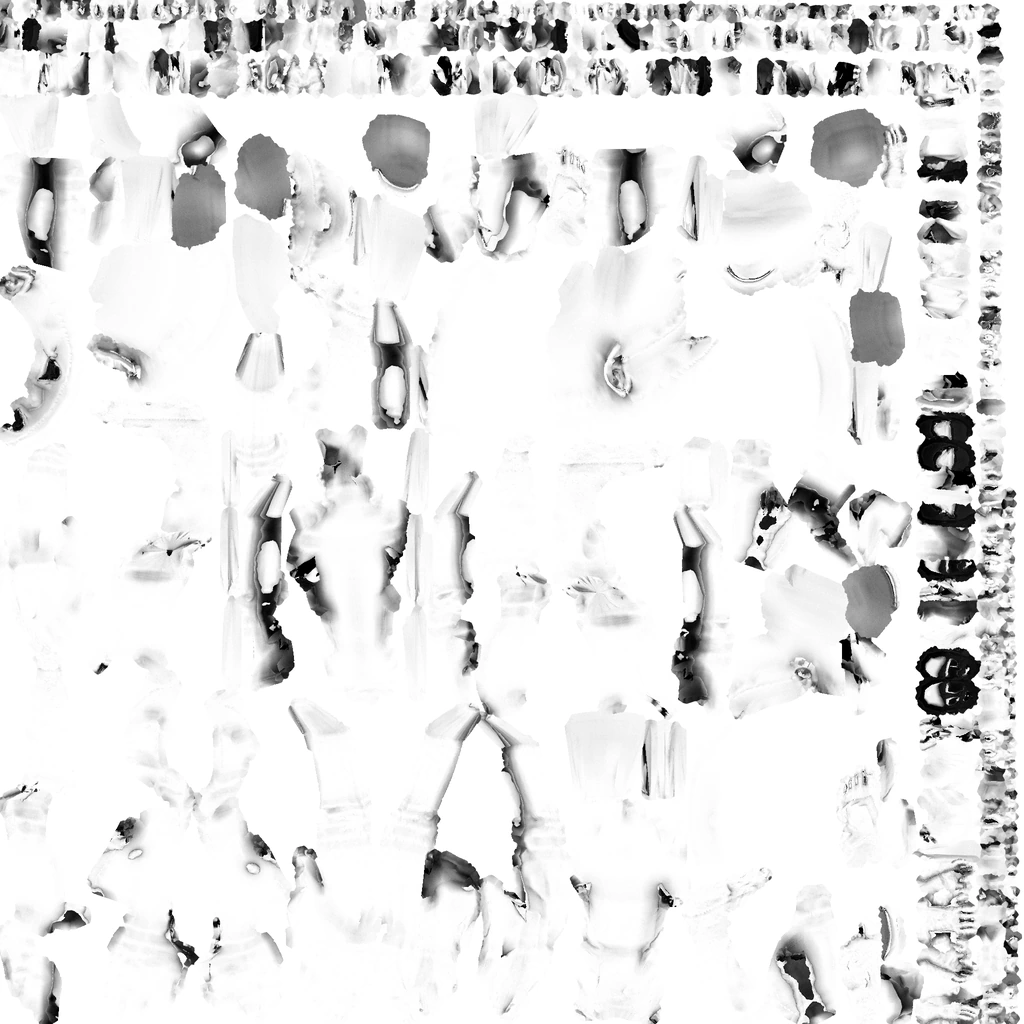
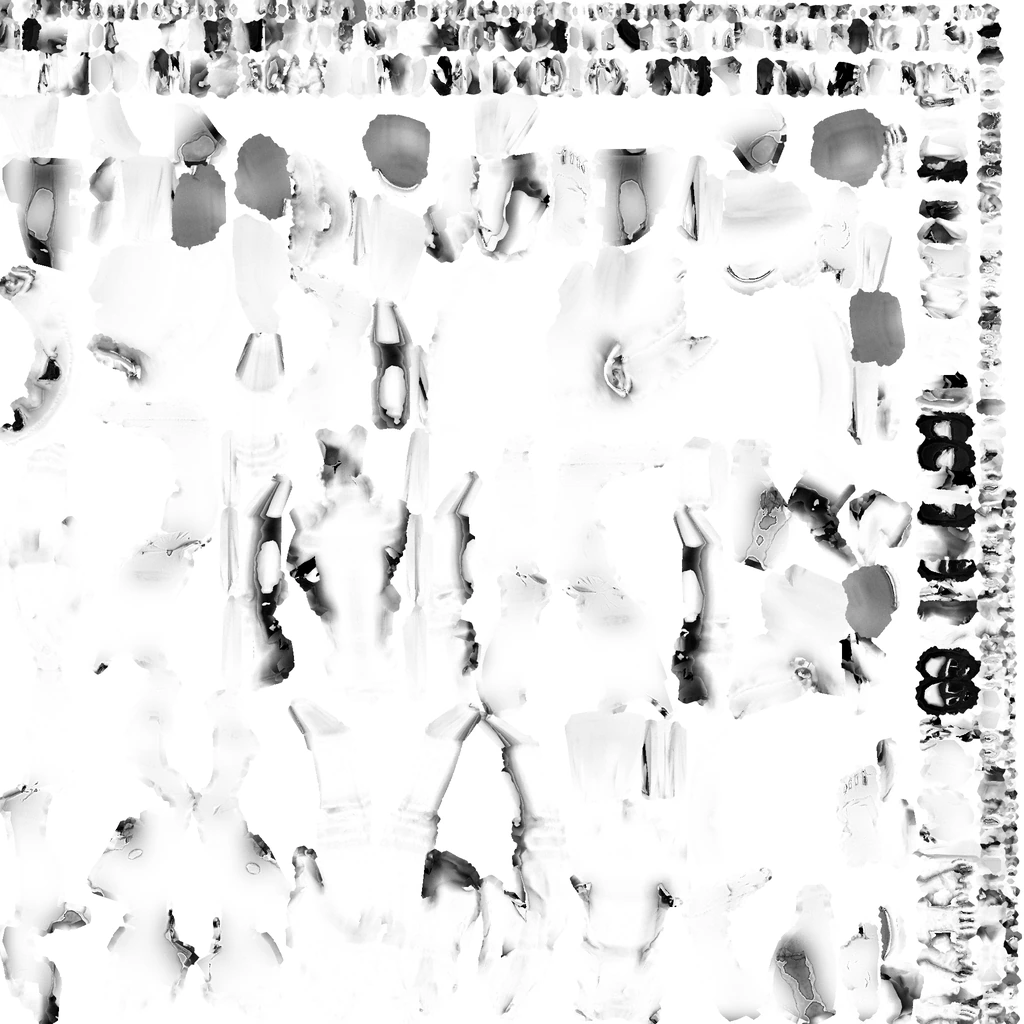
183 - NEXT #23.3 de-shading: leg-garment AO/normal mid-band (muscle) flatten in build_body.py - edge-preserving band-stop inside the upperLeg/lowerLeg UV mask (mid sigma 18 texels, weave/low-freq kept, seams crisp); texture mid-band energy normal 13.30->5.21, ao 15.71->8.14 /255 over 550k texels; su

diff --git a/tests/drive/leg-shading.spec.js b/tests/drive/leg-shading.spec.js
@@ -1,0 +1,218 @@
+'use strict';
+// ── HT#23.3: the LEG-SHADING instrument (Fable ruling on 181, 2026-08-31) ───
+// v74's leg tube measures measurably straight (side thigh belly 0.5 px,
+// entry 182) yet the author's by-eye "muscular" read persisted. The ruling:
+// the residual read is SHADING — body-derived muscle modelling baked into the
+// leg garment's AO/normal maps. build_body.py now removes the mid-frequency
+// (muscle-scale) band from those maps in the leg-garment UV region.
+//
+// WHAT THE GATE IS (measured honestly, 183): the RENDER-space band metric is
+// NOT discriminative — pre/post flatten measured bp3_7 thigh 13.65 vs 13.26
+// (within run noise): lighting, SSAO and suit-panel edges swamp the texture
+// signal at these scales. The discriminating instrument is TEXTURE-space:
+// build_body.py's flatten logs, into athlete_maps.json, the leg-mask mid-band
+// energy of the AO/normal maps before and after the pass (v75: normal
+// 13.30 -> 5.21, ao 15.71 -> 8.14; a BODY_FLATTEN_OFF build leaves the maps
+// at ~13/16 and the build-side gate fires). This spec gates on those stats
+// and REPORTS the render-space band-pass numbers.
+const { test, expect } = require('@playwright/test');
+
+const GATE_NORMAL_AFTER = 7.0;   // v75 measures 5.21; pre-flatten 13.30
+const GATE_AO_AFTER = 10.0;      // v75 measures 8.14; pre-flatten 15.71
+
+async function measureShading(page, label, alphaOff) {
+    return page.evaluate(async (alphaOff) => {
+        const scene = BABYLON.EngineStore.LastCreatedScene;
+        const eng = scene.getEngine();
+        const W = eng.getRenderWidth(), H = eng.getRenderHeight();
+        const isAthlete = (m) => m.name && m.name.indexOf('athleteBody') === 0;
+        const hidden = [];
+        for (const m of scene.meshes) {
+            if (m.isEnabled() && !isAthlete(m)) { hidden.push(m); m.setEnabled(false); }
+        }
+        const parts = scene.meshes.filter(isAthlete);
+        let lo = null, hi = null;
+        for (const p of parts) {
+            p.computeWorldMatrix(true);
+            const b = p.getBoundingInfo().boundingBox;
+            lo = lo ? BABYLON.Vector3.Minimize(lo, b.minimumWorld) : b.minimumWorld.clone();
+            hi = hi ? BABYLON.Vector3.Maximize(hi, b.maximumWorld) : b.maximumWorld.clone();
+        }
+        const centre = lo.add(hi).scale(0.5);
+        const root = scene.getMeshByName('skierRoot') || scene.getNodeByName('skierRoot');
+        const fwd = root ? root.getDirection(new BABYLON.Vector3(0, 0, -1))
+                         : new BABYLON.Vector3(0, 0, -1);
+        fwd.y = 0; fwd.normalize();
+        const cam = scene.activeCamera;
+        const camSaved = { t: cam.target.clone(), r: cam.radius,
+                           a: cam.alpha, b: cam.beta };
+        cam.setTarget(centre);
+        cam.alpha = Math.atan2(fwd.z, fwd.x) + alphaOff;
+        cam.beta = Math.PI / 2;
+        cam.radius = 3.0;
+        const mesh = parts[0];
+        mesh.computeWorldMatrix(true);
+        const world = mesh.getWorldMatrix();
+        const project = (v) => BABYLON.Vector3.Project(v,
+            BABYLON.Matrix.Identity(), scene.getTransformMatrix(),
+            cam.viewport.toGlobal(W, H));
+        scene.render(); scene.render();
+        const anchors = {};
+        for (const b of mesh.skeleton.bones) {
+            const f = b.getFinalMatrix && b.getFinalMatrix();
+            if (!f || !/^(hlpHip|hlpKnee|lowerLeg)[LR]$/.test(b.name)) continue;
+            const p = project(BABYLON.Vector3.TransformCoordinates(
+                f.getTranslation(), world));
+            anchors[b.name] = { row: Math.round(p.y), x: p.x };
+        }
+        const rowMean = (pre) => {
+            const rs = Object.entries(anchors)
+                .filter(([k]) => k.startsWith(pre)).map(([, a]) => a.row);
+            return rs.length ? Math.round(rs.reduce((a, r) => a + r, 0) / rs.length) : -1;
+        };
+        const hipRow = rowMean('hlpHip');
+        const kneeRow = rowMean('hlpKnee');
+        const ankleRow = rowMean('lowerLeg');
+        const px = await eng.readPixels(0, 0, W, H);
+        const at = (x, y) => {
+            const i = ((H - 1 - y) * W + x) * 4;
+            return [px[i], px[i + 1], px[i + 2]];
+        };
+        const corners = [at(0, 0), at(W - 1, 0), at(0, H - 1), at(W - 1, H - 1)];
+        const ref = [0, 1, 2].map(c => corners.reduce((a, p) => a + p[c], 0) / 4);
+        const isBg = (x, y) => {
+            const p = at(x, y);
+            return Math.abs(p[0] - ref[0]) + Math.abs(p[1] - ref[1])
+                 + Math.abs(p[2] - ref[2]) < 40;
+        };
+        const cov0 = (y0, y1) => {
+            const rows = [];
+            for (let y = y0; y <= y1; y++) {
+                const r = { y, xs: [] };
+                for (let x = 0; x < W; x++)
+                    if (!isBg(x, y)) r.xs.push(x);
+                if (r.xs.length > 2) rows.push(r);
+            }
+            if (!rows.length) return null;
+            let x0 = W, x1 = 0;
+            for (const r of rows) { x0 = Math.min(x0, r.xs[0]); x1 = Math.max(x1, r.xs[r.xs.length - 1]); }
+            const wid = x1 - x0 + 1;
+            const L = new Float32Array(rows.length * wid);
+            const cov = new Uint8Array(rows.length * wid);
+            rows.forEach((r, j) => {
+                for (const x of r.xs) {
+                    const p = at(x, r.y);
+                    L[j * wid + (x - x0)] = (p[0] + p[1] + p[2]) / 3;
+                    cov[j * wid + (x - x0)] = 1;
+                }
+            });
+            return { L, cov, hgt: rows.length, wid };
+        };
+        const boxBlur = (src, cov, hgt, wid, R) => {
+            const sum = new Float32Array(src.length), cnt = new Float32Array(src.length);
+            for (let j = 0; j < hgt; j++)
+                for (let i = 0; i < wid; i++)
+                    if (cov[j * wid + i])
+                        for (let dj = -R; dj <= R; dj++)
+                            for (let di = -R; di <= R; di++) {
+                                const jj = j + dj, ii = i + di;
+                                if (jj < 0 || jj >= hgt || ii < 0 || ii >= wid) continue;
+                                const k = jj * wid + ii;
+                                if (!cov[k]) continue;
+                                sum[j * wid + i] += src[k]; cnt[j * wid + i] += 1;
+                            }
+            const out = new Float32Array(src.length);
+            for (let k = 0; k < src.length; k++)
+                out[k] = cnt[k] > 0 ? sum[k] / cnt[k] : src[k];
+            return out;
+        };
+        const bandRms = (c, rA, rB, inject = 0) => {
+            const L = Float32Array.from(c.L);
+            if (inject) {
+                const cj = Math.floor(c.hgt / 2), ci = Math.floor(c.wid / 2);
+                for (let j = 0; j < c.hgt; j++)
+                    for (let i = 0; i < c.wid; i++)
+                        if (c.cov[j * c.wid + i])
+                            L[j * c.wid + i] += inject * Math.exp(
+                                -(((j - cj) ** 2 + (i - ci) ** 2) / 32));
+            }
+            const bA = boxBlur(L, c.cov, c.hgt, c.wid, rA);
+            const bB = boxBlur(L, c.cov, c.hgt, c.wid, rB);
+            let s = 0, n = 0;
+            for (let k = 0; k < L.length; k++)
+                if (c.cov[k]) { const hp = bA[k] - bB[k]; s += hp * hp; n++; }
+            return +(Math.sqrt(s / Math.max(1, n))).toFixed(2);
+        };
+        const M = 6;
+        const cThigh = cov0(hipRow + M, kneeRow - M);
+        const cShin = cov0(kneeRow + M, ankleRow - M);
+        const measure = (c) => {
+            const m = { n: c ? c.cov.reduce((a, v) => a + v, 0) : 0 };
+            for (const [a, b] of [[2, 4], [3, 7], [5, 11]])
+                m[`bp${a}_${b}`] = c ? bandRms(c, a, b) : 0;
+            return m;
+        };
+        // Self-test: the band-pass counter applied to a synthetic muscle-scale
+        // shading patch (amplitude 100, sigma 4 px) ALONE — proves the
+        // counter responds to exactly the signal the flatten removes.
+        const synth = (c) => {
+            const L = new Float32Array(c.L.length);
+            const cj = Math.floor(c.hgt / 2), ci = Math.floor(c.wid / 2);
+            for (let j = 0; j < c.hgt; j++)
+                for (let i = 0; i < c.wid; i++)
+                    if (c.cov[j * c.wid + i])
+                        L[j * c.wid + i] = 100 * Math.exp(
+                            -(((j - cj) ** 2 + (i - ci) ** 2) / 32));
+            const bA = boxBlur(L, c.cov, c.hgt, c.wid, 3);
+            const bB = boxBlur(L, c.cov, c.hgt, c.wid, 7);
+            let s = 0, n = 0;
+            for (let k = 0; k < L.length; k++)
+                if (c.cov[k]) { const hp = bA[k] - bB[k]; s += hp * hp; n++; }
+            return +(Math.sqrt(s / Math.max(1, n))).toFixed(2);
+        };
+        const inject = cThigh ? synth(cThigh) : 0;
+        const thigh = measure(cThigh);
+        thigh.inject = inject;
+        const shin = measure(cShin);
+        scene.render();
+        cam.setTarget(camSaved.t); cam.radius = camSaved.r;
+        cam.alpha = camSaved.a; cam.beta = camSaved.b;
+        for (const m of hidden) m.setEnabled(true);
+        return { hipRow, kneeRow, ankleRow, thigh, shin };
+    }, alphaOff);
+}
+
+test('leg shading: leg-garment AO/normal mid-band flatten present and effective (athlete_maps.json); render-space band-pass instrument reported with injected-patch self-test', async ({ page }) => {
+    await page.setViewportSize({ width: 1280, height: 720 });
+    await page.goto('/index.html');
+    await page.waitForFunction(() => typeof window._getGameState === 'function');
+    await page.waitForFunction(() => window._bodyLinked > 0, null, { timeout: 60_000 });
+    await page.waitForTimeout(1200);
+
+    // GATE (texture-space): the flatten ran and bit, per athlete_maps.json.
+    const maps = await (await page.request.fetch('/assets/athlete_maps.json')).json();
+    console.log('LEGSHADE maps', JSON.stringify({
+        normal: maps.stats && maps.stats.normal_flatten,
+        ao: maps.stats && maps.stats.ao_flatten,
+    }));
+    expect(maps.stats.normal_flatten && maps.stats.normal_flatten.after)
+        .toBeLessThanOrEqual(GATE_NORMAL_AFTER);
+    expect(maps.stats.ao_flatten && maps.stats.ao_flatten.after)
+        .toBeLessThanOrEqual(GATE_AO_AFTER);
+    // The pass must have BIT: mid-band energy measurably down, not a no-op.
+    expect(maps.stats.normal_flatten.after)
+        .toBeLessThan(maps.stats.normal_flatten.before * 0.7);
+    expect(maps.stats.ao_flatten.after)
+        .toBeLessThan(maps.stats.ao_flatten.before * 0.7);
+
+    // INSTRUMENT (render space): band-pass bands + injected-patch self-test.
+    // Reported, not gated (see header: not discriminative — 183 measurement).
+    const side = await measureShading(page, 'side', Math.PI / 2);
+    console.log('LEGSHADE side', JSON.stringify(side));
+    // Negative control 1 (instrument self-test): the band-pass counter must
+    // respond decisively to a muscle-scale shading patch measured alone.
+    expect(side.thigh.inject).toBeGreaterThan(2.0);
+
+    const front = await measureShading(page, 'front', 0);
+    console.log('LEGSHADE front', JSON.stringify(front)); // reported, not gated
+});

diff --git a/game.js b/game.js
@@ -2432,7 +2432,7 @@ void main(void) {
         env: scene.environmentIntensity,
     });
     // Bump this whenever assets/ is regenerated.
-    const ASSET_V = "?v=74";   // 74: #23.3 de-muscularize — RELAX_STRENGTH 0.85, shell smoothing 32x/0.60 (build_body.py, iter 178)
+    const ASSET_V = "?v=75";   // 75: #23.3 de-shading — leg-garment AO/normal mid-band (muscle) flatten in build_body.py, iter 183
     // multipliers — which is the property that makes them safe. An additive
     // baked term double-counts light the runtime already renders (that is what
 

diff --git a/blender/build_body.py b/blender/build_body.py
@@ -9878,9 +9878,61 @@ def target_image(low, img):
         node.image = img
         node.select = True
         tree.nodes.active = node
+# ── RULING on 181 (Fable, 2026-08-31 10:55, HT#23.3) ────────────────────────
+# v74's leg TUBE measures measurably straight (side thigh belly 0.5 px, 182),
+# yet the author's by-eye "muscular" read persists. The ruling: the residual
+# read is SHADING — the leg garment's AO/normal maps inherit body-derived
+# muscle modelling (cm-scale quad/calf shading baked off the high-poly), which
+# reads as anatomy through an already-straight tube. Fix here, in the LEG
+# GARMENT region only: remove the MID-FREQUENCY band (muscle scale) from the
+# normal map's tangent deviation and the AO. The LOW-frequency broad shading
+# and the HIGH-frequency fabric relief are kept (the suit NM variance floor
+# 6.3 must stay green), and panel seams stay crisp via an edge-preserving mask.
+LEG_GARMENT_SEGMENTS = ('upperLegL', 'upperLegR', 'lowerLegL', 'lowerLegR')
+FLATTEN_MID_SIGMA = 18.0    # texels: band centred below ~3 sigma is removed
+FLATTEN_HIGH_SIGMA = 1.5    # texels: keep everything above ~4 texels (weave)
+FLATTEN_EDGE = {'normal': 0.04, 'ao': 0.06}   # per-texel gradient = a seam
+BODY_FLATTEN_OFF = os.environ.get('BODY_FLATTEN_OFF') == '1'
+
+
+def flatten_leg_shading(low, img, kind, log):
+    """Mid-band (muscle-scale) suppression inside the leg-garment UV mask."""
+    if BODY_FLATTEN_OFF or kind not in FLATTEN_EDGE:
+        return None
+    own = dominant_segments(low)
+    tris = _poly_uv_tris(low, lambda v: own[v] in LEG_GARMENT_SEGMENTS)
+    w, h = img.size
+    mask = _dilate(_rasterize_uv(tris, w, h), 4)
+    n = int(mask.sum())
+    buf = np.empty(w * h * 4, dtype=np.float32)
+    img.pixels.foreach_get(buf)
+    a = buf.reshape(h, w, 4)[..., :3].astype(np.float64)
+    out = a.copy()
+    thr = FLATTEN_EDGE[kind]
+    for c in range(3):
+        ch = a[..., c]
+        lowf = _blur(ch, FLATTEN_MID_SIGMA)
+        highf = ch - _blur(ch, FLATTEN_HIGH_SIGMA)
+        filt = lowf + highf
+        g = np.zeros_like(ch)
+        g[:, :-1] = np.abs(np.diff(ch, axis=1))
+        g[:-1, :] = np.maximum(g[:-1, :], np.abs(np.diff(ch, axis=0)))
+        edge = np.minimum(1.0, _blur((g > thr).astype(np.float64), 1.5))
+        out[..., c] = filt * (1.0 - edge) + ch * edge
+    sel = mask[..., None]
+    before = float(np.abs(a - _blur(a, FLATTEN_MID_SIGMA))[mask].mean())
+    a = np.where(sel, out, a)
+    after = float(np.abs(a - _blur(a, FLATTEN_MID_SIGMA))[mask].mean())
+    flat = np.concatenate([a, np.ones((h, w, 1))], axis=2).astype(np.float32)
+    img.pixels.foreach_set(flat.reshape(-1))
+    log(f'LEG-SHADING FLATTEN ({kind}): mid-band energy in leg mask '
+        f'{before * 255:.2f} -> {after * 255:.2f}/255 over {n} texels')
+    return {'before': round(before * 255, 2), 'after': round(after * 255, 2),
+            'texels': n}
 
 
 def bake_maps(low, high, out_dir):
+
     """
     Transfer the high-poly's detail onto the low-poly's UVs.
 
@@ -9898,7 +9950,7 @@ def bake_maps(low, high, out_dir):
     # NOT be black where nothing is baked.
     bake.use_clear = False
 
-    def run(kind, name, srgb, fill, setup=None):
+    def run(kind, name, srgb, fill, setup=None, post=None):
         # FILL THE BACKGROUND FIRST, and not with black.
         #
         # Unwrapping a decimated human produces a lot of small islands, and only
@@ -9925,6 +9977,8 @@ def bake_maps(low, high, out_dir):
             setup(bake)
         log(f'baking {name} {RES}x{RES} at {SAMPLES} samples...')
         bpy.ops.object.bake(type=kind)
+        if post:
+            post(img, name)
         return bakeutil.save_bake(img, os.path.join(out_dir, f'{name}.png'),
                                   srgb=srgb, log=log)
 
@@ -9932,8 +9986,14 @@ def bake_maps(low, high, out_dir):
     bpy.context.scene.render.bake.normal_space = 'TANGENT'
     # A tangent-space normal pointing straight out is (0.5, 0.5, 1.0); occlusion
     # with nothing occluding is 1.0; unpainted suit is the suit's own colour.
+    def post_flatten(kind):
+        def _post(img, name):
+            stats[name.split('_')[1] + '_flatten'] = flatten_leg_shading(
+                low, img, kind, log)
+        return _post
     stats['normal'] = run('NORMAL', 'athlete_normal', srgb=False,
-                          fill=(0.5, 0.5, 1.0, 1.0))
+                          fill=(0.5, 0.5, 1.0, 1.0),
+                          post=post_flatten('normal'))
     # AO IS LIMITED TO A SHORT DISTANCE, on purpose.
     #
     # An unlimited AO bake sees the whole body, and the body is baked in
@@ -9951,8 +10011,23 @@ def bake_maps(low, high, out_dir):
     if bpy.context.scene.world is None:
         bpy.context.scene.world = bpy.data.worlds.new('bakeWorld')
     bpy.context.scene.world.light_settings.distance = 0.04
-    stats['ao'] = run('AO', 'athlete_ao', srgb=False, fill=(1.0, 1.0, 1.0, 1.0))
+    stats['ao'] = run('AO', 'athlete_ao', srgb=False, fill=(1.0, 1.0, 1.0, 1.0),
+                      post=post_flatten('ao'))
 
+    # RULING on 181: the flatten is not optional. A build that leaves the
+    # muscle-frequency band in the leg-garment maps (BODY_FLATTEN_OFF=1, or a
+    # mask/ownership regression that empties the mask) FAILS the build.
+    for _k in ('normal_flatten', 'ao_flatten'):
+        _f = stats.get(_k)
+        if not _f or not _f.get('texels'):
+            raise SystemExit(
+                f'[body] LEG-SHADING FLATTEN gate FAILED: {_k} never ran '
+                f'(flatten skipped or leg mask empty)')
+        if _f['after'] > _f['before'] * 0.7:
+            raise SystemExit(
+                f'[body] LEG-SHADING FLATTEN gate FAILED: {_k} mid-band '
+                f'{_f["before"]} -> {_f["after"]}/255 — the pass did not bite '
+                f'(required <= 70% of before)')
     def albedo_only(b):
         b.use_pass_direct = False
         b.use_pass_indirect = False
